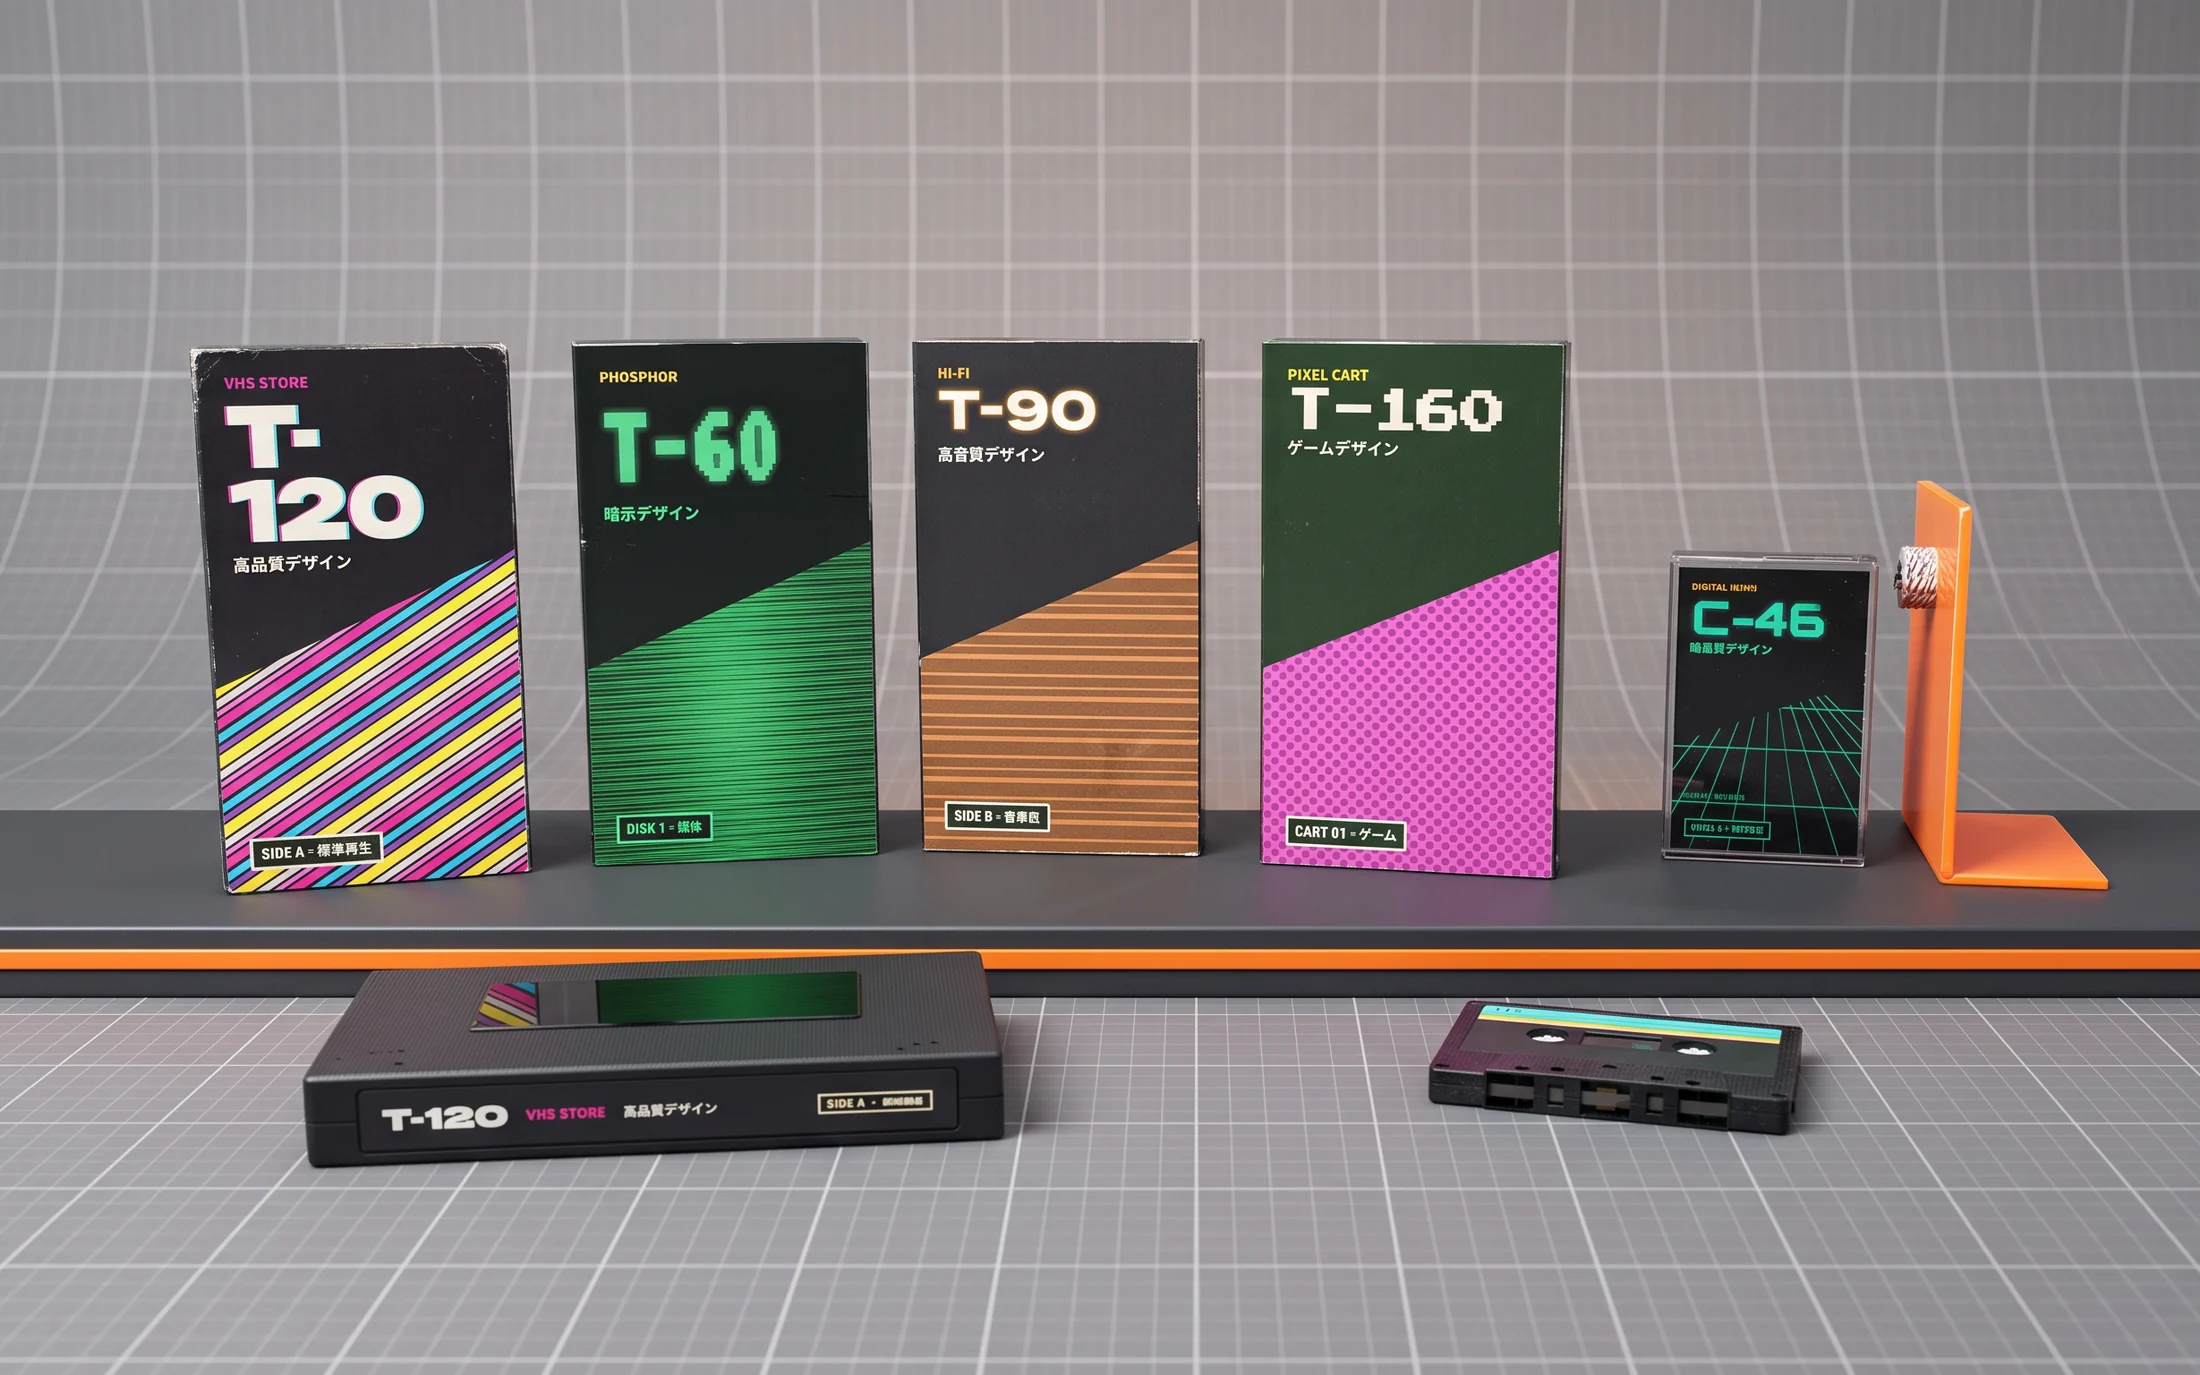
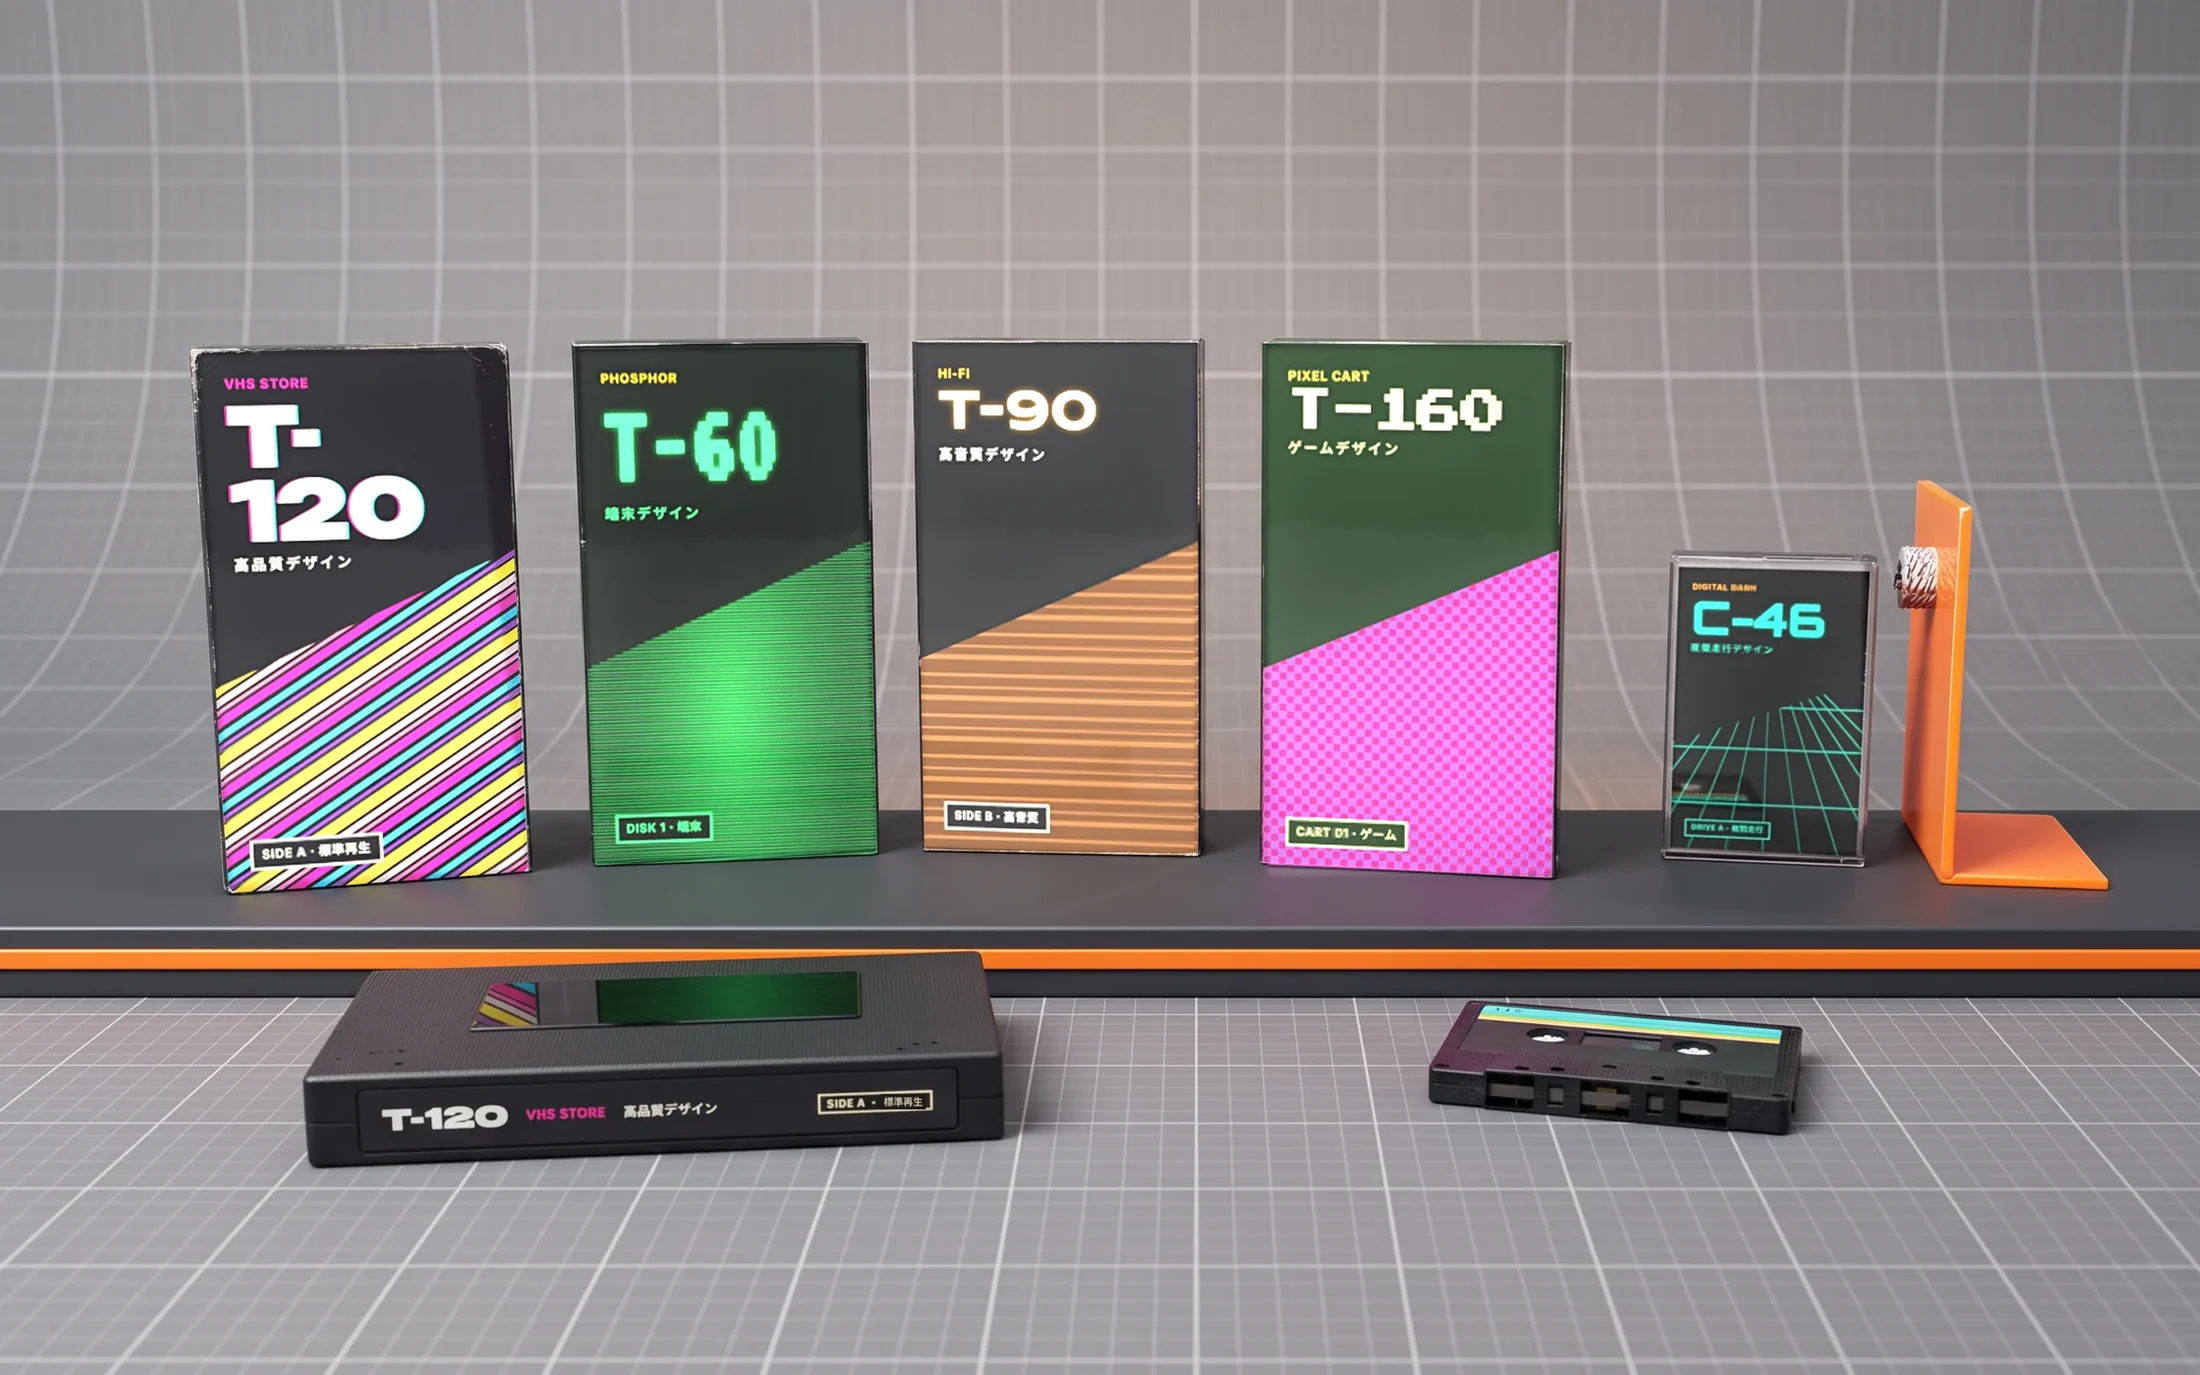
Standard Play: restore exact sleeve artwork and labels over the Vizcom pass
Claude-Session: https://claude.ai/code/session_01TNyScy9nZyiLRuuEgea6hJ

diff --git a/index.html b/index.html
@@ -4470,7 +4470,7 @@ function spPage(){
  <section class="band dark"><div class="wrap case"><p class="num">AI Design Systems / Standard Play</p><h1>Standard Play</h1><p class="meta">An open library of design systems on tape</p>
   <p class="note">I wanted to find out how far I could push an AI as a production partner while keeping the taste and the decisions mine. The result is a free library of Figma design systems, each one named like a tape and drawn from a piece of old hardware.</p>
   <dl class="facts f5"><div><dt>My role</dt><dd>Founder, designer</dd></div><div><dt>Built with</dt><dd>Claude · Figma · Figma MCP</dd></div><div><dt>Output</dt><dd>5 Figma libraries + public site</dd></div><div><dt>Scale</dt><dd>240 variables · 35 component sets · 46 icons</dd></div><div><dt>CMF</dt><dd>25 materials · 5 tapes · Blender Cycles</dd></div></dl></div></section>
- <section class="band dark" style="padding-bottom:56px"><div class="wrap"><figure class="mono" style="margin:0;padding-top:0"><div class="media tr-l">${im(['img/spr__shelf.webp',1800,860],'The five Standard Play tapes on a shelf: four VHS sleeves, T-120, T-60, T-90 and T-160, and the C-46 audio cassette case, with two cassettes in front','heroimg')}<div class="sp-hot" aria-hidden="true"><span style="left:7.5%;top:11%"><b>01</b>SBS BOARD · PET OVERLAY · 90 GU</span><span style="left:66%;top:29%"><b>02</b>CLEAR PS CASE · PRINTED J-CARD</span><span style="right:2%;top:24%"><b>03</b>POWDER-COAT BOOKEND · KNURLED AL</span><span style="left:12%;top:90%"><b>04</b>STIPPLE ABS · SMOKED PC WINDOW</span><span style="left:70%;top:89%"><b>05</b>SMOKED SHELL · VFD-TEAL LABEL</span></div></div><figcaption>The shelf, rebuilt with production CMF: printed SBS board under a gloss PET overlay for the sleeves, a clear polystyrene case for the C-46, stipple ABS and smoked polycarbonate for the cassettes, on a graphite powder-coat plinth with an orange anodised edge. The shelf and tape shots are Vizcom render passes over the Blender scenes: geometry, artwork and colour come from the model, the pass adds real board, plastic and light, and the smallest print on the C-46 card softens.</figcaption></figure>
+ <section class="band dark" style="padding-bottom:56px"><div class="wrap"><figure class="mono" style="margin:0;padding-top:0"><div class="media tr-l">${im(['img/spr__shelf.webp',1800,860],'The five Standard Play tapes on a shelf: four VHS sleeves, T-120, T-60, T-90 and T-160, and the C-46 audio cassette case, with two cassettes in front','heroimg')}<div class="sp-hot" aria-hidden="true"><span style="left:7.5%;top:11%"><b>01</b>SBS BOARD · PET OVERLAY · 90 GU</span><span style="left:66%;top:29%"><b>02</b>CLEAR PS CASE · PRINTED J-CARD</span><span style="right:2%;top:24%"><b>03</b>POWDER-COAT BOOKEND · KNURLED AL</span><span style="left:12%;top:90%"><b>04</b>STIPPLE ABS · SMOKED PC WINDOW</span><span style="left:70%;top:89%"><b>05</b>SMOKED SHELL · VFD-TEAL LABEL</span></div></div><figcaption>The shelf, rebuilt with production CMF: printed SBS board under a gloss PET overlay for the sleeves, a clear polystyrene case for the C-46, stipple ABS and smoked polycarbonate for the cassettes, on a graphite powder-coat plinth with an orange anodised edge. The shelf and tape shots are Vizcom render passes over the Blender scenes: geometry, artwork and colour come from the model, the pass adds real board, plastic and light. Where the pass misread the small print, the original sleeve artwork and labels were put back.</figcaption></figure>
   <div class="tiles sp-tiles sp-strip">${TAPES.map((t,i)=>`<div class="tile"><div class="media ${i%2?'bl':'tr'}">${sleeve(t)}</div><small>${esc(t.era)}</small><h3>${t.title}</h3><button class="sp-mat" type="button" onclick="document.getElementById('spc-${t.id}').scrollIntoView({behavior:'smooth',block:'start'})" aria-label="${t.title} materials">${(SP_CMF[t.id]||[]).map(r=>`<i style="background:${r[5][0][0]}"></i>`).join('')}<span>CMF ↓</span></button></div>`).join('')}</div></div></section>
  <section class="band light section"><div class="wrap"><h2 class="sh-title" style="font-size:32px">Object First, Tokens Second</h2><p class="sh-sub">Every tape starts as a physical object / 25 materials, rebuilt in Blender, specified like production CMF</p>
   <p class="intro">Before a colour becomes a token it has to be a material: a printed sleeve board, a brushed faceplate, a smoked lens, a soft-touch skin. For each tape I drew the object it comes from, wrote its CMF spec part by part, rebuilt every material as a 50 mm sample in Blender, and only then turned it into the Figma system. The arrow on each material is the handover: the role it plays on screen.</p>
